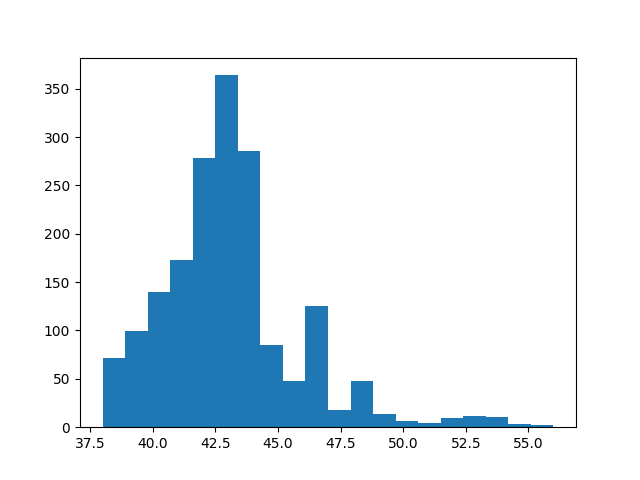
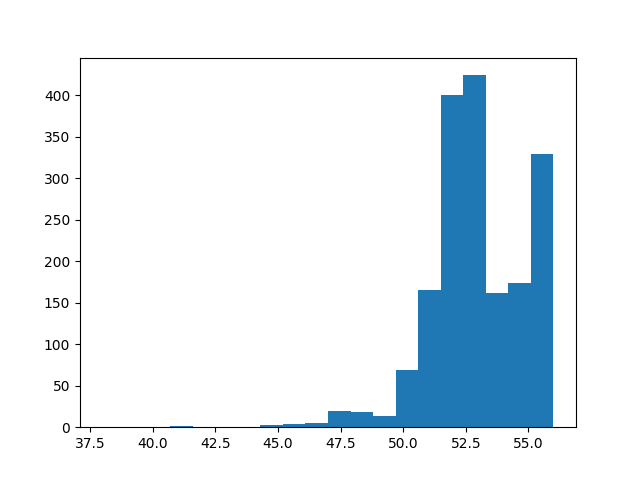
ambigyear analysis

diff --git a/Python/Temp/molecule.py b/Python/Temp/molecule.py
@@ -1,39 +1,27 @@
 huckel = [[0,1,1,0,0,0],
           [1,0,1,0,0,0],
-          [1,1,0,1,0,0],
-          [0,0,1,0,1,1],
-          [0,0,0,1,0,1],
-          [0,0,0,1,1,0]]
+          [1,1,0,0,0,0],
+          [0,0,0,0,0,0],
+          [0,0,0,0,0,0],
+          [0,0,0,0,0,0]]
 
 N = len(huckel)
- 
-# variables to be used
-# in both functions
+
 graph = [[] for i in range(N)]
 cycles = [[] for i in range(N)]
- 
- 
-# Function to mark the vertex with
-# different colors for different cycles
+
 def dfs_cycle(u, p, color: list,
               par: list):
     global cyclenumber
- 
-    # already (completely) visited vertex.
+
     if color[u] == 2:
         return
- 
-    # seen vertex, but was not
-    # completely visited -> cycle detected.
-    # backtrack based on parents to
-    # find the complete cycle.
+
     if color[u] == 1:
         v = []
         cur = p
         v.append(cur)
- 
-        # backtrack the vertex which are
-        # in the current cycle thats found
+
         while cur != u:
             cur = par[cur]
             v.append(cur)
@@ -43,33 +31,24 @@ def dfs_cycle(u, p, color: list,
         return
  
     par[u] = p
- 
-    # partially visited.
+
     color[u] = 1
- 
-    # simple dfs on graph
+
     for v in graph[u]:
- 
-        # if it has not been visited previously
+
         if v == par[u]:
             continue
         dfs_cycle(v, u, color, par)
- 
-    # completely visited.
+
     color[u] = 2
- 
-# add the edges to the graph
+
 def addEdge(u, v):
     graph[u].append(v)
     graph[v].append(u)
- 
-# Function to print the cycles
+
 def printCycles():
- 
-    # print all the vertex with same cycle
+
     for i in range(0, cyclenumber):
- 
-        # Print the i-th cycle
         print("Cycle Number %d:" % (i+1), end = " ")
         for x in cycles[i]:
             print(x, end = " ")
@@ -82,17 +61,9 @@ if __name__ == "__main__":
         for j in range(i):
             if huckel[i][j] == 1:
                 addEdge(i,j)
- 
-    # arrays required to color the
-    # graph, store the parent of node
+
     color = [0] * N
     par = [0] * N
- 
-    # store the numbers of cycle
     cyclenumber = 0
- 
-    # call DFS to mark the cycles
     dfs_cycle(1, 0, color, par)
- 
-    # function to print the cycles
     printCycles()

diff --git a/Python/Core/DataCollection/analyzeAmbig.py b/Python/Core/DataCollection/analyzeAmbig.py
@@ -1,27 +1,39 @@
 import pandas as pd
 import numpy as np
+import math
 import matplotlib.pyplot as plt
 import os
 
-CULLING_SIZE = 1000
-
-net_df = pd.read_csv(f'ambignetv2.csv')
+net_df = pd.read_csv(f'ambignetv3.csv')
 net_df = net_df.to_numpy()
 
 tablet = net_df[0][0]
-finalvals = [[tablet,0]]
+finalvals = [[tablet,0,0]]
 totalconnections = 0
+samples = 0
 for i in range(len(net_df)):
     if net_df[i][2] == 'ambiguous':
         continue
     if net_df[i][0] != tablet:
         finalvals[-1][1] = finalvals[-1][1]/totalconnections
-        #print(finalvals[-1])
+        finalvals[-1][2] = samples
+        print(finalvals[-1])
         tablet = net_df[i][0]
         totalconnections = 0
-        finalvals.append([tablet,0])
-    finalvals[-1][1] += net_df[i][1]*net_df[i][3]
-    totalconnections += net_df[i][1]
+        samples = 0
+        finalvals.append([tablet,0,0])
+    mult = -1
+    if net_df[i][3] < 50:
+        mult = 1/(1+math.e**(-0.5*((net_df[i][3])-40)))
+        #print(net_df[i][3],mult)
+    else:
+        mult = (-1/(1+math.e**(-0.5*((net_df[i][3])-60))))+1
+        #print(net_df[i][3],mult)
+    samples += net_df[i][1]
+    weight = net_df[i][1]*(net_df[i][5]/100)*mult
+    finalvals[-1][1] += net_df[i][3]*weight
+    totalconnections += weight
+
 
 avgyears = []
 for i in range(len(finalvals)):
@@ -31,5 +43,6 @@ counts, bins = np.histogram(avgyears, bins=20, range=(38,56))
 plt.hist(bins[:-1], bins, weights=counts)
 path = os.getcwd() + '/GraphicRepresentations/ambighist'
 plt.savefig(path)
+
 #amar-sin 6 is ~56
 #sulgi 42 is ~44

diff --git a/Python/Core/DataCollection/tabletNetFormatter.py b/Python/Core/DataCollection/tabletNetFormatter.py
@@ -1,12 +1,8 @@
-<<<<<<< HEAD
-#Elliot Fisk: create formatting for edgelist CSVs
-=======
 # Tablet Net Formatter
 # October 2022
 # Elliot Fisk
 # ---------------
 # TODO synopsis and comments v below v
->>>>>>> 6e744b459c41db5cf92f2d7f25600ad6c711acb5
 
 import csv
 from Database.SQLfuncs import SQLfuncs

diff --git a/Python/Core/DataCollection/Database/SQLfuncs.py b/Python/Core/DataCollection/Database/SQLfuncs.py
@@ -1,4 +1,3 @@
-from getpass import getpass
 from mysql.connector import connect, Error
 
 class SQLfuncs(object):
